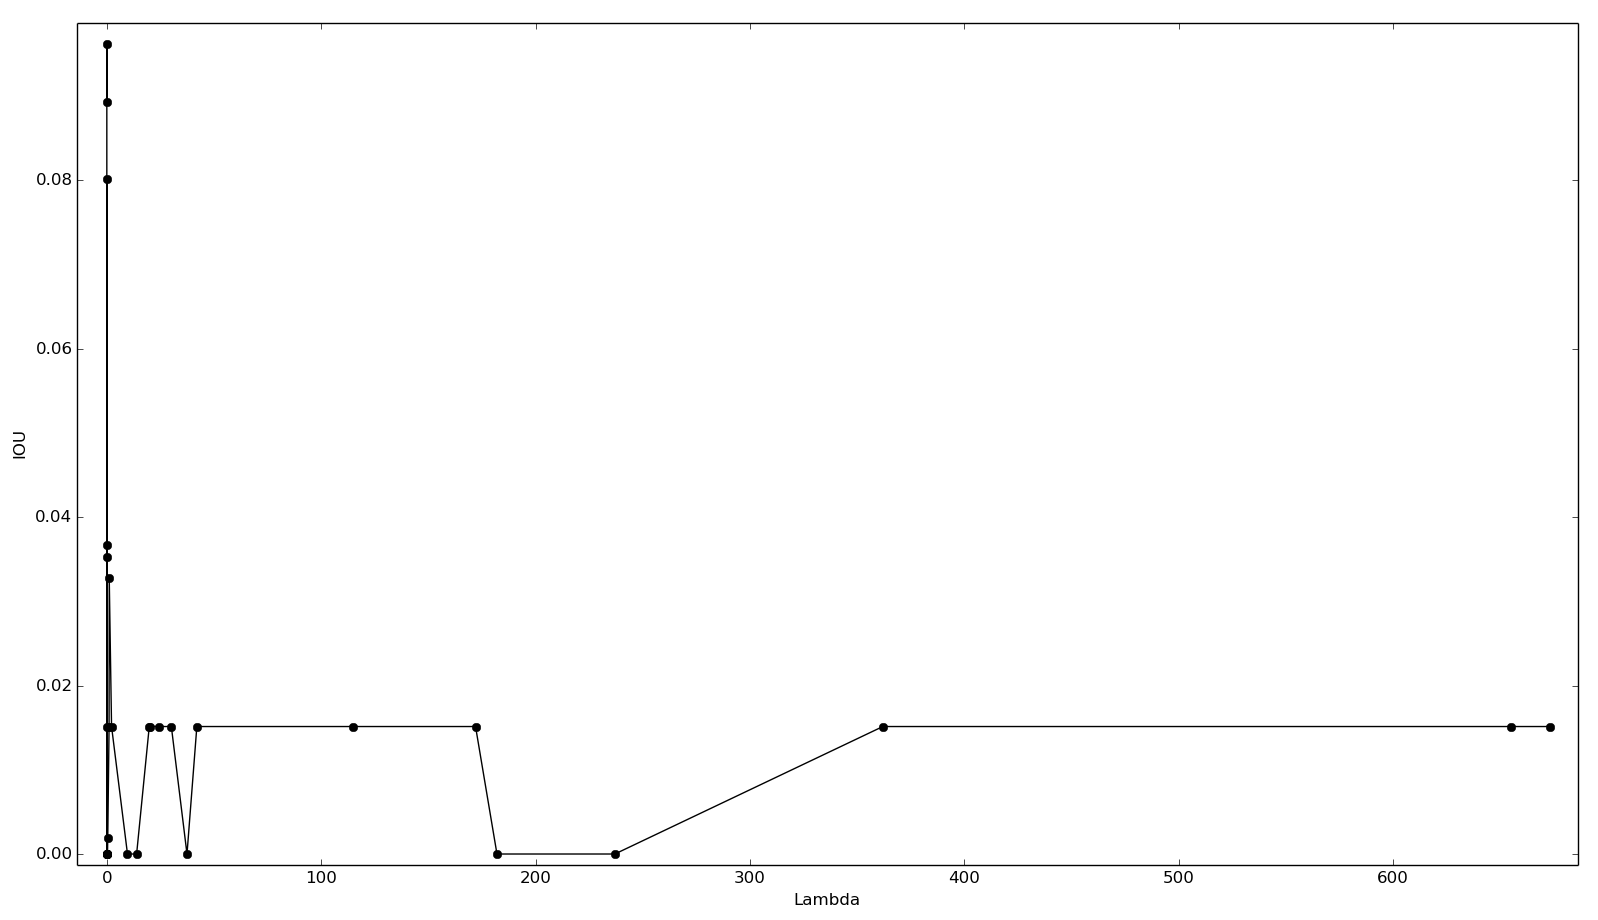
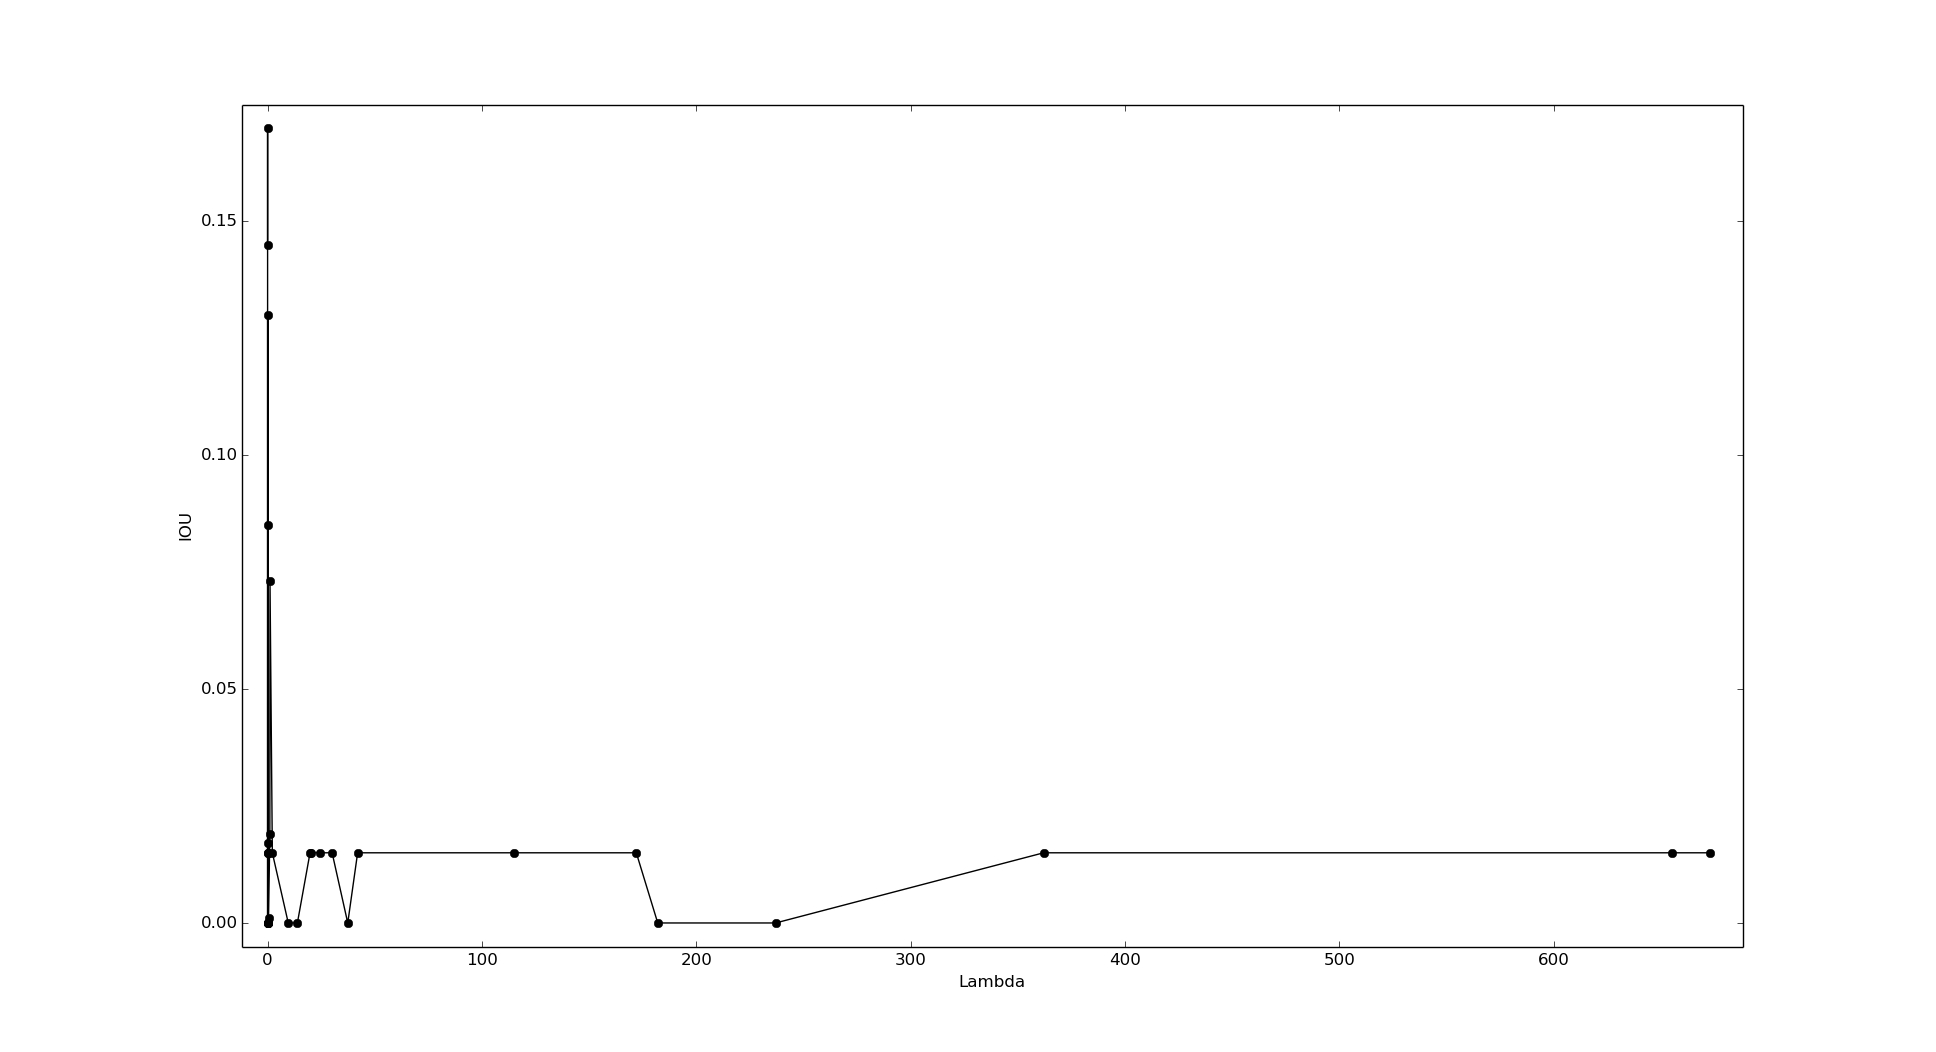
New results for some hyperparameter search with fixed IOU

diff --git a/experiments/hyperparameters/plotResults.py b/experiments/hyperparameters/plotResults.py
@@ -14,7 +14,7 @@ from scipy.interpolate import griddata
 # Values taken from the Spreadsheet hyperparameter_search.odt
 alpha = np.array([4.02E-006 ,1.19E-005, 1.79E-005, 1.91E-005, 2.64E-005, 3.85E-005, 3.86E-005, 1.05E-004, 1.48E-004, 4.36E-004, 4.85E-004, 1.15E-003, 1.96E-003, 2.09E-003, 4.06E-003, 1.60E-002, 1.67E-002, 1.87E-002, 3.20E-002, 3.60E-002, 4.03E-002, 4.16E-002, 4.77E-002, 1.18E-001, 1.67E-001, 1.95E-001, 2.09E-001, 2.34E-001, 2.83E-001, 5.85E-001])
 lambda_ = np.array([1.98E+001, 4.20E+001, 1.13E+000, 2.01E+001, 3.43E-002, 3.82E-003, 1.05E+000, 2.21E+000, 1.27E-001, 1.15E+002, 3.50E-003, 4.08E-002, 6.55E+002, 1.89E-001, 1.72E+002, 6.73E+002, 5.35E-003, 1.36E-002, 2.43E+001, 3.01E+001, 1.39E+001, 4.42E-001, 3.62E+002, 1.59E-001, 2.37E+002, 3.16E-001, 9.64E+000, 2.25E-001, 3.74E+001, 1.82E+002])
-iou = np.array([0.01514, 0.01514, 0.03277, 0.01514, 0.0802, 0.09626, 0.01514, 0.01514, 0.03533, 0.01514, 0.08935, 0.03673, 0.01514, 0.01514, 0.01514, 0.01514, 0, 0, 0.01514, 0.01514, 0, 0.0019, 0.01514, 0, 0, 0, 0, 0, 0, 0])
+iou = np.array([0.015, 0.015, 0.073, 0.015, 0.13, 0.17, 0.019, 0.015, 0.085, 0.015, 0.145, 0.015, 0.015, 0.015, 0.015, 0.015, 0, 0, 0.015, 0.015, 0, 0.001, 0.015, 0, 0, 0.017, 0, 0, 0, 0])
 # val_logistic_loss (DIVERGENT were topped to 2)
 #values = np.array([0.4034, 0.5027, 0.2258, 0.5268, 0.2381, 0.2041, 0.1833, 0.1464, 0.1078, 0.2323, 0.0826, 0.0864, 0.0819, 0.0846, 0.0787, 0.0785, 2, 2, 0.0786, 0.0785, 2, 2, 0.0795, 2, 2, 2, 2, 2, 2, 2])
 
@@ -23,10 +23,10 @@ alpha = np.array([1.04E-006, 1.11E-006, 1.42E-006, 1.54E-006, 1.82E-006, 2.15E-0
 lambda_ = np.array([3.01E-003, 3.39E-004, 2.15E-003, 2.18E-003, 3.77E-002, 1.27E-002, 5.42E-004, 4.32E-004, 3.88E-002, 5.01E-003, 7.40E-005, 1.82E-005, 3.29E-002, 4.44E-003, 1.16E-005])
 iou = np.array([0.124, 0.099, 0.101, 0.108, 0.117, 0.114, 0.124, 0.119, 0.12, 0.118, 0.117, 0.117, 0.077, 0.084, 0.115])
 
-# Hyperparameter search 4 (First 15 only)
-alpha = np.array([2.37E-006, 2.93E-006, 3.12E-006, 4.64E-006, 1.12E-005, 2.11E-005, 2.13E-005, 5.92E-005, 1.49E-004, 3.23E-004, 4.52E-004, 5.44E-004, 7.01E-004, 7.13E-004, 1.69E-003])
-lambda_ = np.array([1.53E-004, 6.13E-001, 8.34E-004, 1.46E-003, 2.14E-003, 2.04E-003, 2.23E+000, 3.64E-003, 3.85E-001, 4.67E-002, 1.63E-001, 1.89E-004, 1.14E+000, 6.57E-003, 4.58E-001])
-iou = np.array([0.119, 0.111, 0.119, 0.125, 0.125, 0.133, 0.015, 0.122, 0.015, 0.015, 0.017, 0.124, 0.015, 0.018, 0.015])
+# Hyperparameter search 4 (First 17 only)
+alpha = np.array([2.37E-006, 2.93E-006, 3.12E-006, 4.64E-006, 1.12E-005, 2.11E-005, 2.13E-005, 5.92E-005, 1.49E-004, 3.23E-004, 4.52E-004, 5.44E-004, 7.01E-004, 7.13E-004, 1.69E-003, 4.92E-003, 9.73E-003])
+lambda_ = np.array([1.53E-004, 6.13E-001, 8.34E-004, 1.46E-003, 2.14E-003, 2.04E-003, 2.23E+000, 3.64E-003, 3.85E-001, 4.67E-002, 1.63E-001, 1.89E-004, 1.14E+000, 6.57E-003, 4.58E-001, 2.99E-002, 1.35E+000])
+iou = np.array([0.262, 0.25, 0.266, 0.319, 0.296, 0.312, 0.015, 0.221, 0.015, 0.015, 0.017, 0.285, 0.015, 0.116, 0.015, 0.015, 0.015])
 
 # Hyperparameter search 5 (6 )
 alpha = np.array([3.56E-006, 1.17E-005, 1.31E-005, 1.63E-005, 1.82E-005, 2.01E-005, 2.27E-005, 3.36E-005, 3.80E-005, 4.08E-005, 4.18E-005, 6.56E-005, 1.20E-004, 1.43E-004, 2.59E-004, 3.79E-004, 3.96E-004, 1.63E-003, 1.65E-003, 1.84E-003])
@@ -52,7 +52,7 @@ plt.show()
 #xs, ys = np.meshgrid(np.linspace(alpha.min(), alpha.max()), np.linspace(lambda_.min(), lambda_.max()))
 #xs, ys = np.meshgrid(alpha, lambda_) 
 #xs, ys = np.meshgrid(alpha, lambda_[order[0:-5]]) # Discard 5 highest lambdas
-xs, ys = np.meshgrid(np.logspace(-6, -2), np.logspace(-5, 0))
+xs, ys = np.meshgrid(np.logspace(-6, -1), np.logspace(-4, 1))
 zs = griddata((alpha, lambda_), iou, (xs, ys), method = 'nearest')
 plt.pcolor(xs, ys, zs, cmap = cm.gray)
 plt.xlabel('Alpha')
